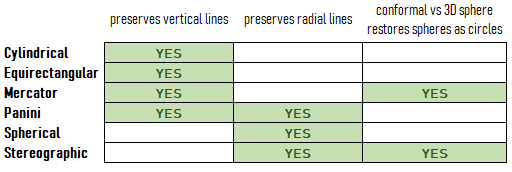
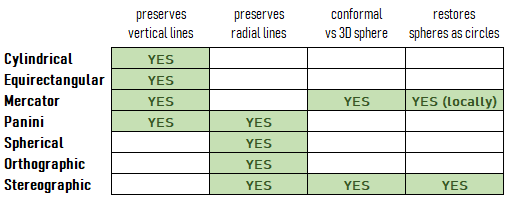
Add files via upload

diff --git a/linear2orthographic.cpp b/linear2orthographic.cpp
@@ -1,0 +1,138 @@
+#include <Rcpp.h>
+#include <cmath>
+
+using namespace Rcpp;
+
+// [[Rcpp::export]]
+NumericVector linear_to_orthographic_rcpp(NumericVector img, double fl_FF_mm, double zoom = 1.0) {
+    IntegerVector dims = img.attr("dim");
+    if (dims.size() != 3) {
+        stop("Input image must be a 3D array (M x N x 3).");
+    }
+    
+    int H_in = dims[0]; 
+    int W_in = dims[1]; 
+    int channels = dims[2];
+    
+    double diag_mm = std::sqrt(36.0 * 36.0 + 24.0 * 24.0); 
+    double diag_pixel = std::sqrt((double)H_in * H_in + (double)W_in * W_in);
+    
+    // The base focal length for sampling the input rectilinear image
+    double f_pixel = fl_FF_mm * (diag_pixel / diag_mm);
+    
+    // The scaled focal length for the output orthographic mapping
+    double f_pixel_zoom = f_pixel * zoom;
+    
+    int H_out = H_in;
+    int W_out = W_in;
+    
+    double cy_in = H_in / 2.0;
+    double cx_in = W_in / 2.0;
+    double cy_out = H_out / 2.0;
+    double cx_out = W_out / 2.0;
+    
+    NumericVector out_img(Dimension(H_out, W_out, channels));
+    
+    // Pre-calculate row-dependent Y values scaled by the zoomed focal length
+    std::vector<double> Y_vals(H_out);
+    for (int r_out = 0; r_out < H_out; ++r_out) {
+        Y_vals[r_out] = (r_out - cy_out) / f_pixel_zoom;
+    }
+    
+    // Raw pointers for fast, direct contiguous memory access
+    double* p_out = out_img.begin();
+    const double* p_in = img.begin();
+    
+    // Pre-calculate channel memory block strides
+    int in_channel_stride = H_in * W_in;
+    int out_channel_stride = H_out * W_out;
+    
+    // Loop columns first (Outer)
+    for (int c_out = 0; c_out < W_out; ++c_out) {
+        
+        // Compute normalized X on the orthographic plane
+        double X = (c_out - cx_out) / f_pixel_zoom;
+        double X_sq = X * X;
+        
+        // If X^2 >= 1.0, the ray misses the unit sphere entirely. 
+        // The entire column is out of bounds.
+        if (X_sq >= 1.0) {
+            for (int r_out = 0; r_out < H_out; ++r_out) {
+                int out_idx = r_out + H_out * c_out;
+                for (int ch = 0; ch < channels; ++ch) {
+                    p_out[out_idx + ch * out_channel_stride] = 0.0;
+                }
+            }
+            continue; 
+        }
+        
+        int out_col_idx = H_out * c_out;
+        
+        // Loop rows (Inner)
+        for (int r_out = 0; r_out < H_out; ++r_out) {
+            
+            int out_pixel_idx = r_out + out_col_idx;
+            
+            double Y = Y_vals[r_out];
+            double R_sq = X_sq + Y * Y;
+            
+            // Check if ray is outside the orthographic hemisphere.
+            // Using 0.999999 to protect against divide-by-zero when Z approaches 0.
+            if (R_sq >= 0.999999) {
+                for (int ch = 0; ch < channels; ++ch) {
+                    p_out[out_pixel_idx + ch * out_channel_stride] = 0.0;
+                }
+                continue;
+            }
+            
+            // Reconstruct Z on the unit sphere
+            double Z = std::sqrt(1.0 - R_sq);
+            double inv_Z = 1.0 / Z;
+            
+            // Compute intersection on the flat pinhole image plane using original f_pixel
+            double c_in = f_pixel * (X * inv_Z) + cx_in;
+            double r_in = f_pixel * (Y * inv_Z) + cy_in;
+            
+            int c0 = std::floor(c_in);
+            int c1 = c0 + 1;
+            int r0 = std::floor(r_in);
+            int r1 = r0 + 1;
+            
+            // Check if the mapped pixel is completely out of the input image bounds
+            if (c0 < 0 || c1 >= W_in || r0 < 0 || r1 >= H_in) {
+                for (int ch = 0; ch < channels; ++ch) {
+                    p_out[out_pixel_idx + ch * out_channel_stride] = 0.0;
+                }
+                continue;
+            }
+            
+            double delta_c = c_in - c0;
+            double one_minus_delta_c = 1.0 - delta_c;
+            double delta_r = r_in - r0;
+            double one_minus_delta_r = 1.0 - delta_r;
+            
+            // Pre-calculate column memory strides for the input array
+            int in_c0_stride = c0 * H_in;
+            int in_c1_stride = c1 * H_in;
+            
+            // Loop channels (Innermost - easily unrolled)
+            for (int ch = 0; ch < channels; ++ch) {
+                int ch_offset = ch * in_channel_stride;
+                
+                // Direct pointer offsets
+                double p00 = p_in[r0 + in_c0_stride + ch_offset];
+                double p10 = p_in[r0 + in_c1_stride + ch_offset];
+                double p01 = p_in[r1 + in_c0_stride + ch_offset];
+                double p11 = p_in[r1 + in_c1_stride + ch_offset];
+                
+                // Bilinear interpolation
+                double interpolated_val = one_minus_delta_r * (one_minus_delta_c * p00 + delta_c * p10) +
+                                          delta_r           * (one_minus_delta_c * p01 + delta_c * p11);
+                
+                p_out[out_pixel_idx + ch * out_channel_stride] = interpolated_val;
+            }
+        }
+    }
+    
+    return out_img;
+}